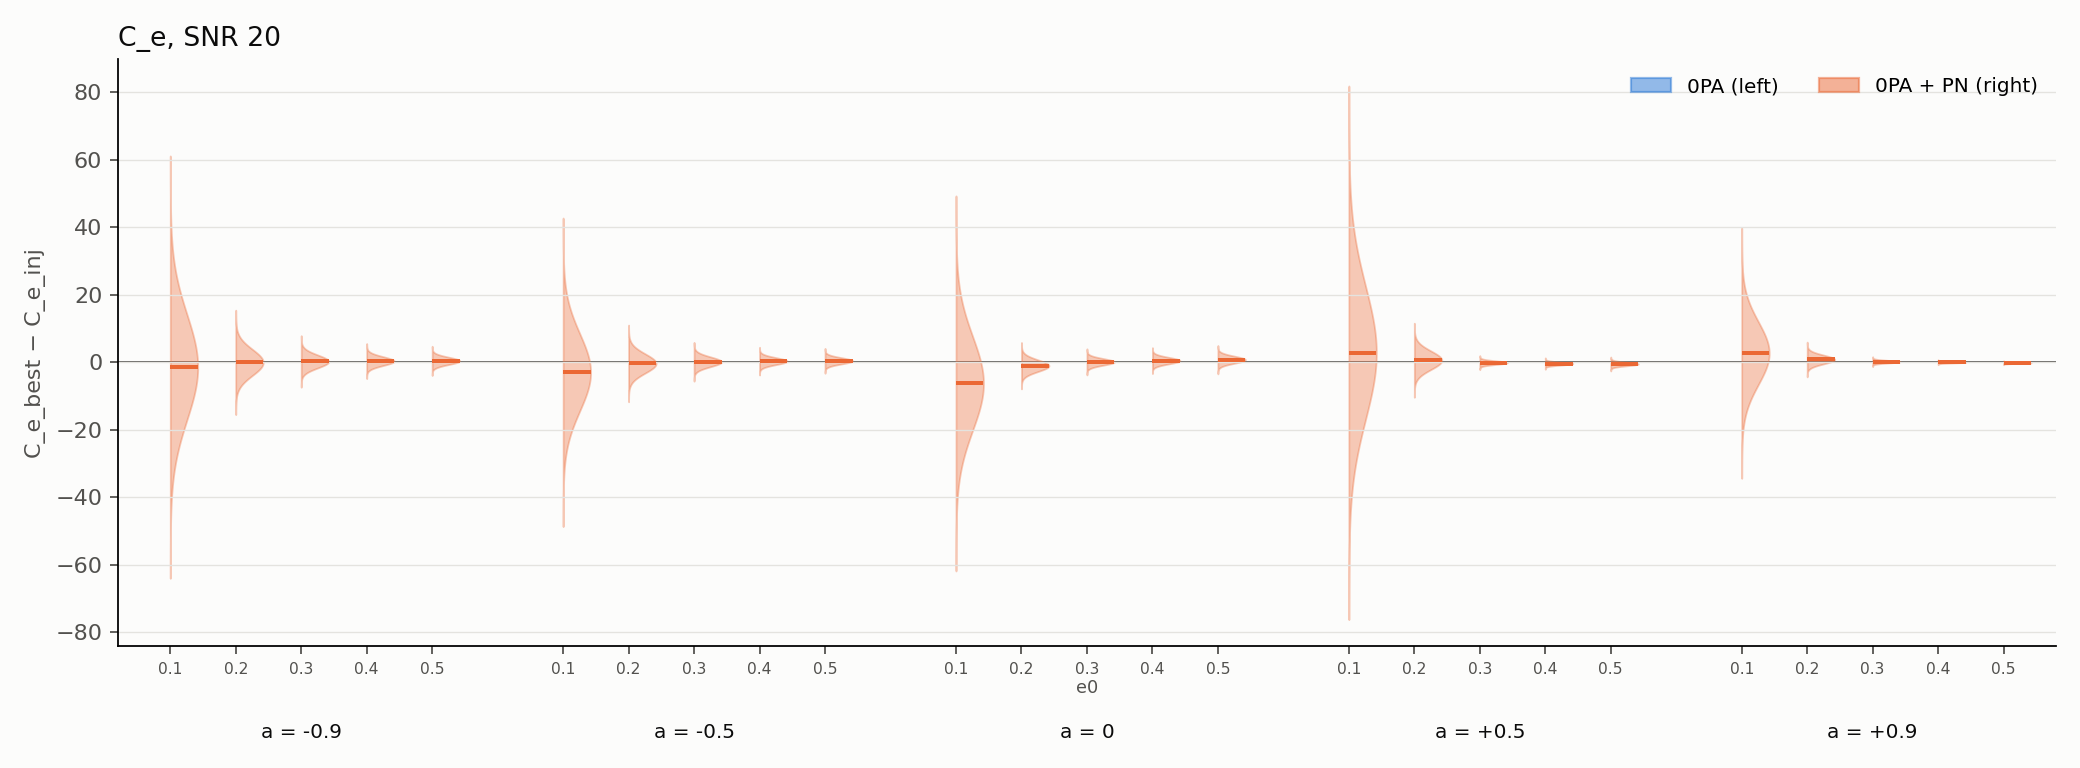
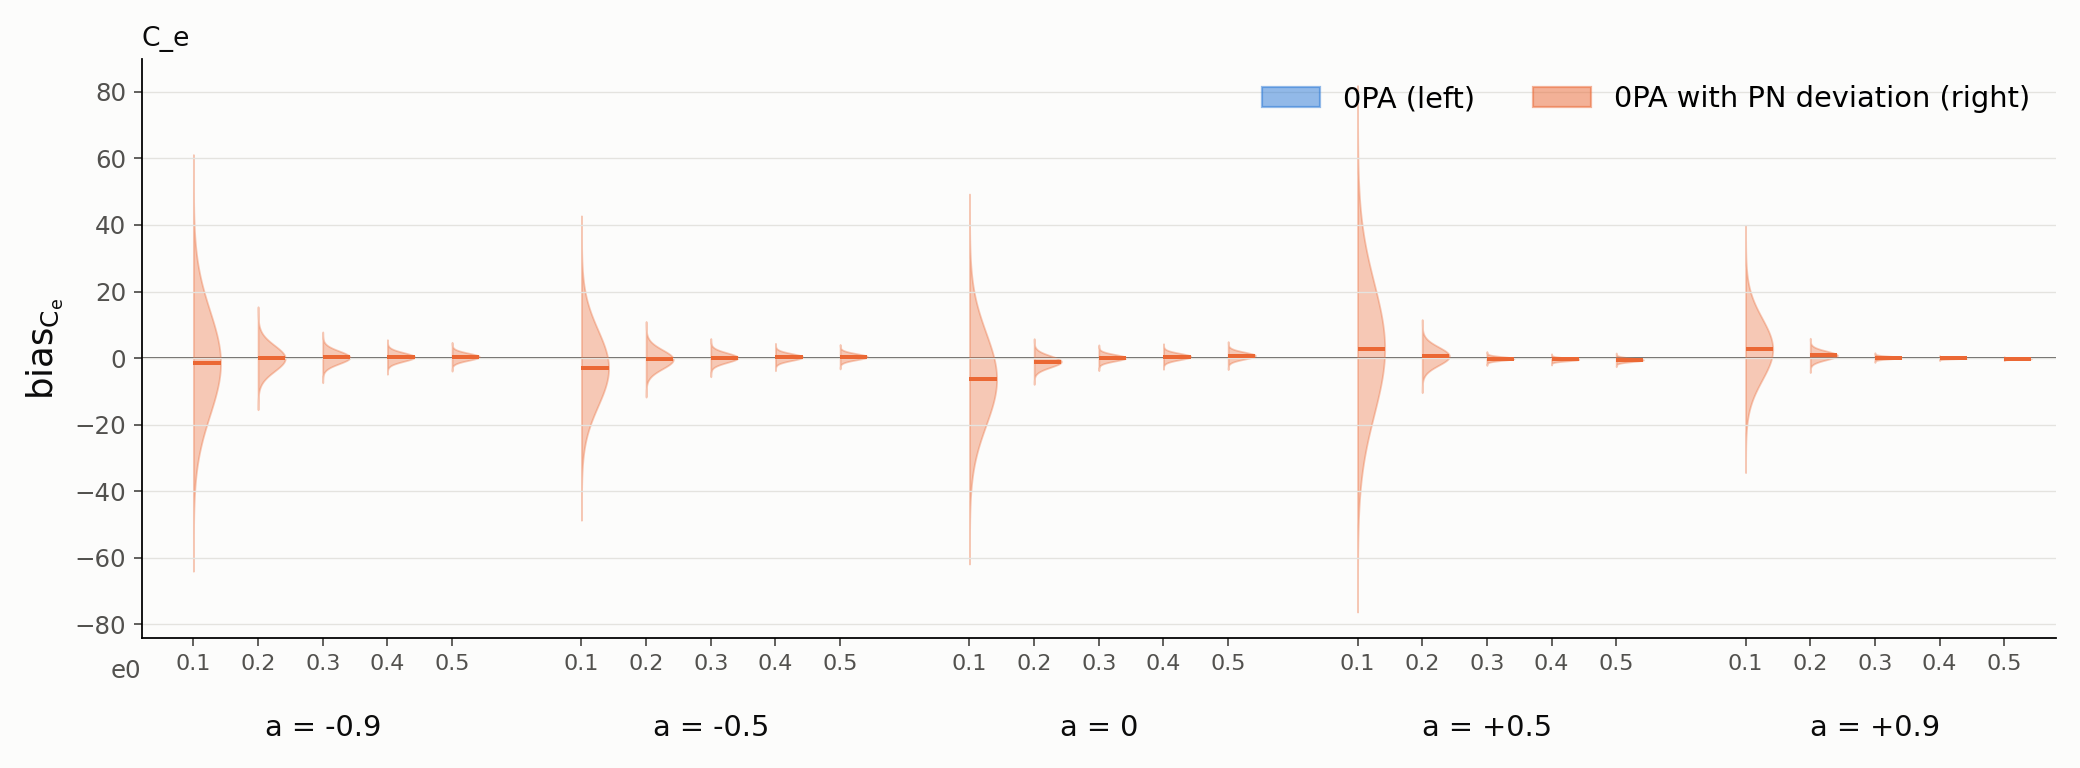
.

diff --git a/IMRI_1PA_PN_DEV/plot_codes/plot_bias_violin_params.py b/IMRI_1PA_PN_DEV/plot_codes/plot_bias_violin_params.py
@@ -4,7 +4,8 @@ the Fisher distribution of x - x_inj: left half 0PA, N(b_0PA, sigma_0PA^2); righ
 only). b = best fit - injection (phases wrapped), sigma from the Fisher matrix at that best fit
 (fisher_at_best.py) at the chosen SNR. Each half is scaled to the same maximum width and cut at
 +-N_SIGMA sigma; the bar is b.
-    -> plots/bias_1D/snr{SNR}/violin_grid.png                  physical parameters (no C_p, C_e)
+    -> plots/bias_1D/snr{SNR}/violin_grid_intrinsic.png        m1, m2, a, p0, e0
+       plots/bias_1D/snr{SNR}/violin_grid_extrinsic.png        qS, phiS, Phi_phi0, Phi_r0
        plots/bias_1D/snr{SNR}/per_param/violin_{param}.png    one file per parameter
 
 Run:  python plot_bias_violin_params.py [--snr 20]
@@ -15,10 +16,12 @@ import matplotlib.pyplot as plt
 import numpy as np
 from matplotlib.patches import Patch
 
-from bias_data import ALL, PHYS, load_bias
+from bias_data import ALL, load_bias
 from common import A_VALUES, E_VALUES, LABEL, SURFACE, TEXT, TEXT_2, out_file
 
-HALVES = (("0pa", "0PA", "#2a78d6", -1), ("pn", "0PA + PN", "#eb6834", +1))
+HALVES = (("0pa", "0PA", "#2a78d6", -1), ("pn", "0PA with PN deviation", "#eb6834", +1))
+GROUPS = {"intrinsic": ("m1", "m2", "a", "p0", "e0"),
+          "extrinsic": ("qS", "phiS", "Phi_phi0", "Phi_r0")}
 N_SIGMA = 4.0           # each half drawn over b +- N_SIGMA sigma
 HALF_WIDTH = 0.42       # maximum half-width of a violin, in units of the point spacing
 GROUP_GAP = 1.0         # extra space between spin groups
@@ -44,32 +47,37 @@ def half_violin(ax, x, b, s, color, side):
     ax.plot([x, x + side * HALF_WIDTH], [b, b], color=color, lw=1.8, solid_capstyle="butt")
 
 
-def param_axes(ax, pts, name, snr, xs):
+def param_axes(ax, pts, name, snr, xs, x_labels=True, title=True):
     for p, x in zip(pts, xs):
         for tag, _, color, side in HALVES:
             if name in p[f"b_{tag}"]:
                 half_violin(ax, x, p[f"b_{tag}"][name], p[f"s_{tag}"][name], color, side)
     ax.axhline(0, color=TEXT_2, lw=0.8, zorder=0)
-    ax.set_xticks(xs, [f"{p['e0']:.1f}" for p in pts], fontsize=7)
-    for g, a in enumerate(A_VALUES):
-        mid = xs[g * len(E_VALUES):(g + 1) * len(E_VALUES)].mean()
-        ax.text(mid, -0.13, f"a = {a:+.1f}" if a else "a = 0", transform=ax.get_xaxis_transform(),
-                ha="center", va="top", fontsize=9, color=TEXT)
+    ax.set_xticks(xs, [f"{p['e0']:.1f}" for p in pts] if x_labels else [], fontsize=10)
     ax.set_xlim(xs[0] - 0.8, xs[-1] + 0.8)
-    ax.set_xlabel("e0", color=TEXT_2, fontsize=8, labelpad=1)
-    ax.set_ylabel(f"{LABEL[name]}_best − {LABEL[name]}_inj", color=TEXT_2)
-    ax.set_title(f"{LABEL[name]}, SNR {snr:g}", color=TEXT, fontsize=12, loc="left")
+    ax.set_ylabel(f"bias$_{{\\mathrm{{{LABEL[name]}}}}}$", color=TEXT, fontsize=16)
+    if title:
+        ax.set_title(LABEL[name], color=TEXT, fontsize=12, loc="left")
     ax.set_facecolor(SURFACE)
     ax.tick_params(colors=TEXT_2)
+    ax.tick_params(axis="y", labelsize=11)
     ax.grid(axis="y", color="#e4e3df", lw=0.6, zorder=0)
     for s in ("top", "right"):
         ax.spines[s].set_visible(False)
+    if not x_labels:
+        return
+    for g, a in enumerate(A_VALUES):
+        mid = xs[g * len(E_VALUES):(g + 1) * len(E_VALUES)].mean()
+        ax.text(mid, -0.13, f"a = {a:+.1f}" if a else "a = 0", transform=ax.get_xaxis_transform(),
+                ha="center", va="top", fontsize=13, color=TEXT)
+    ax.text(xs[0] - 0.8, -0.035, "e0", transform=ax.get_xaxis_transform(), ha="right",
+            va="top", fontsize=11, color=TEXT_2)
 
 
 def legend(where):
     handles = [Patch(facecolor=c, edgecolor=c, alpha=0.5, label=f"{lab} (left)" if side < 0
                      else f"{lab} (right)") for _, lab, c, side in HALVES]
-    where.legend(handles=handles, loc="upper right", frameon=False, fontsize=9, ncol=2)
+    where.legend(handles=handles, loc="upper right", frameon=False, fontsize=13, ncol=2)
 
 
 def single_figure(pts, xs, name, snr):
@@ -80,12 +88,14 @@ def single_figure(pts, xs, name, snr):
     return fig
 
 
-def grid_figure(pts, xs, snr):
-    fig, axes = plt.subplots(len(PHYS), 1, figsize=(13, 3.6 * len(PHYS)), facecolor=SURFACE)
-    for ax, name in zip(axes, PHYS):
-        param_axes(ax, pts, name, snr, xs)
+def grid_figure(pts, xs, names, snr):
+    """Stacked panels sharing the x axis; e0 ticks and spin labels on the bottom panel only."""
+    fig, axes = plt.subplots(len(names), 1, figsize=(13, 2.5 * len(names) + 0.8),
+                             facecolor=SURFACE, sharex=True)
+    for i, (ax, name) in enumerate(zip(axes, names)):
+        param_axes(ax, pts, name, snr, xs, x_labels=i == len(names) - 1, title=False)
     legend(fig)
-    fig.tight_layout(rect=(0, 0, 1, 0.99))
+    fig.tight_layout(rect=(0, 0, 1, 1 - 0.45 / fig.get_figheight()), h_pad=0.4)
     return fig
 
 
@@ -96,9 +106,12 @@ def main():
     args = ap.parse_args()
     pts, xs = ordered(load_bias(args.snr))
     snr_dir = f"snr{args.snr:g}"
-    out = out_file("bias_1D", snr_dir, "violin_grid.png")
-    grid_figure(pts, xs, args.snr).savefig(out, dpi=130, facecolor=SURFACE)
-    print(f"-> {out}")
+    for group, names in GROUPS.items():
+        out = out_file("bias_1D", snr_dir, f"violin_grid_{group}.png")
+        fig = grid_figure(pts, xs, names, args.snr)
+        fig.savefig(out, dpi=130, facecolor=SURFACE)
+        plt.close(fig)
+        print(f"-> {out}")
     for name in ALL:
         fig = single_figure(pts, xs, name, args.snr)
         out = out_file("bias_1D", snr_dir, "per_param", f"violin_{name}.png")
